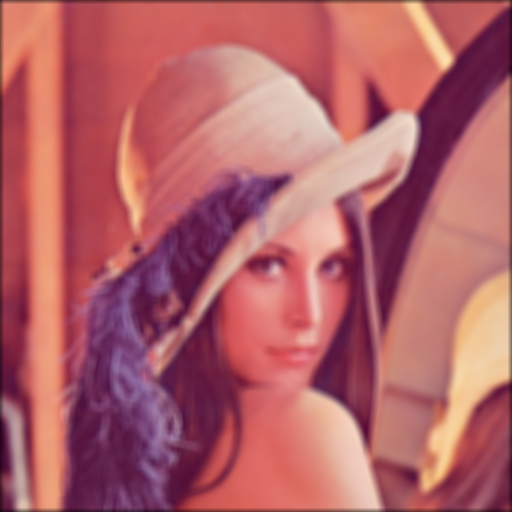
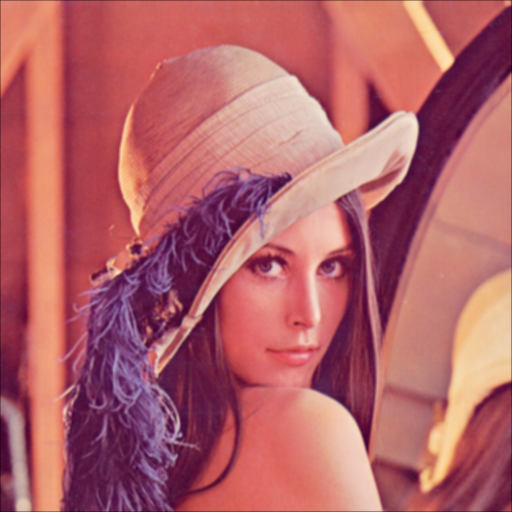
HW2_bonus

diff --git a/HW2Histogram_Equalization/HE.py b/HW2Histogram_Equalization/HE.py
@@ -94,7 +94,7 @@ def Global_HE(img):
     if not os.path.exists(output_dir):
         os.makedirs(output_dir)
     
-    cv.imwrite(output_dir+'/'+'output_inside_global.png', new_img)
+    cv.imwrite(output_dir+'/'+'output_global.png', new_img)
     print(f"PSNR_global: {calculate_PSNR(img,new_img)}")
 
     return
@@ -126,6 +126,36 @@ def Local_HE(img, size=7):
 
     return new_img
 
+
+def Moments_Based_HE(img):
+    new_img = np.zeros_like(img, dtype=np.uint8)
+
+    mean_f = np.mean(img)
+    std_f = np.std(img)
+
+    mean_g = 128
+    std_g = 64
+
+    for i in range(img.shape[0]):
+        for j in range(img.shape[1]):
+            new_pixel = (img[i, j] - mean_f) * (std_g / std_f) + mean_g
+            new_img[i, j] = np.clip(new_pixel, 0, 255)  # avoid overflow
+    
+
+    freq = Generate_Histogram(img)
+    new_freq = Generate_Histogram(new_img)
+    draw_historgram(freq, save=1, after=new_freq)
+
+
+    if not os.path.exists(output_dir):
+        os.makedirs(output_dir)
+    
+    cv.imwrite(output_dir + '/' + 'output_moments.png', new_img)
+    print(f"PSNR_moments: {calculate_PSNR(img, new_img)}")
+
+    return new_img
+
+
 def calculate_PSNR(original, compressed):
     mse = np.mean((original - compressed) ** 2)
     if mse == 0:
@@ -141,10 +171,12 @@ def process_with_different_sizes(img, size):
     return new_img  
  
 if __name__ == '__main__':
-    img = cv.imread("./HW2Histogram_Equalization/images/inside.png", cv.IMREAD_GRAYSCALE)
-    #img = cv.imread("./HW2Histogram_Equalization/images/Lena.png", cv.IMREAD_GRAYSCALE)
-    Global_HE(img)
+    #img = cv.imread("./HW2Histogram_Equalization/images/inside.png", cv.IMREAD_GRAYSCALE)
+    img = cv.imread("./HW2Histogram_Equalization/images/Lena.png", cv.IMREAD_GRAYSCALE)
+    #Global_HE(img)
+    enhanced_image = Moments_Based_HE(img)
 
+    '''
     sizes = [7,11,15,17,31,41,51,71]
 
     with ThreadPoolExecutor(max_workers=2) as executor:
@@ -152,7 +184,7 @@ if __name__ == '__main__':
             executor.submit(Local_HE, img, size)
     
     print("All tasks submitted.")
-
+    '''
 
     # TODO: Display histogram(comparison before and after equalization)
     

diff --git a/dip_final/gauss_filter.c b/dip_final/gauss_filter.c
@@ -1,5 +1,6 @@
 #define _USE_MATH_DEFINES
 #include <math.h>
+#include <time.h>
 
 #include <stdio.h>
 #include <stdlib.h>
@@ -147,7 +148,7 @@ void read_png_file(const char *filename, int *width, int *height, png_bytep **ro
 }
 
 int main() {
-    int size = 9;
+    int size = 3;
     double sigma = 10;
     double kernel[size][size];
 
@@ -168,7 +169,13 @@ int main() {
     printf("Image Width: %d\n", width);
     printf("Image Height: %d\n", height);
 
+    clock_t start_time = clock();
     apply_gaussian_blur(width,height,row_pointers,size,kernel);
+    clock_t end_time = clock();
+    double time_taken = ((double)(end_time - start_time)) / CLOCKS_PER_SEC;
+    printf("time: %.3f s\n", time_taken);
+
+
     write_png_file("./output_img/result.png", width, height, row_pointers);
 
     for (int y = 0; y < height; y++) {
